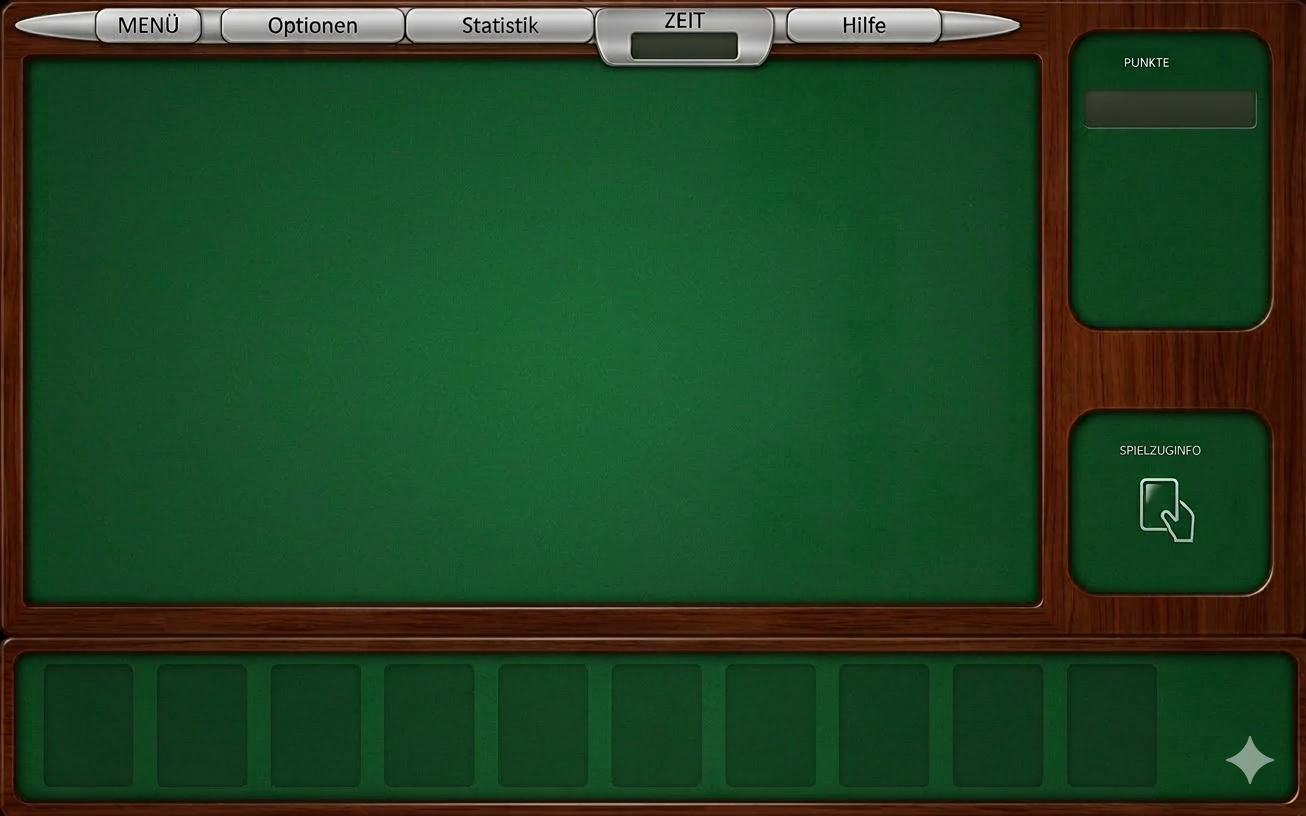
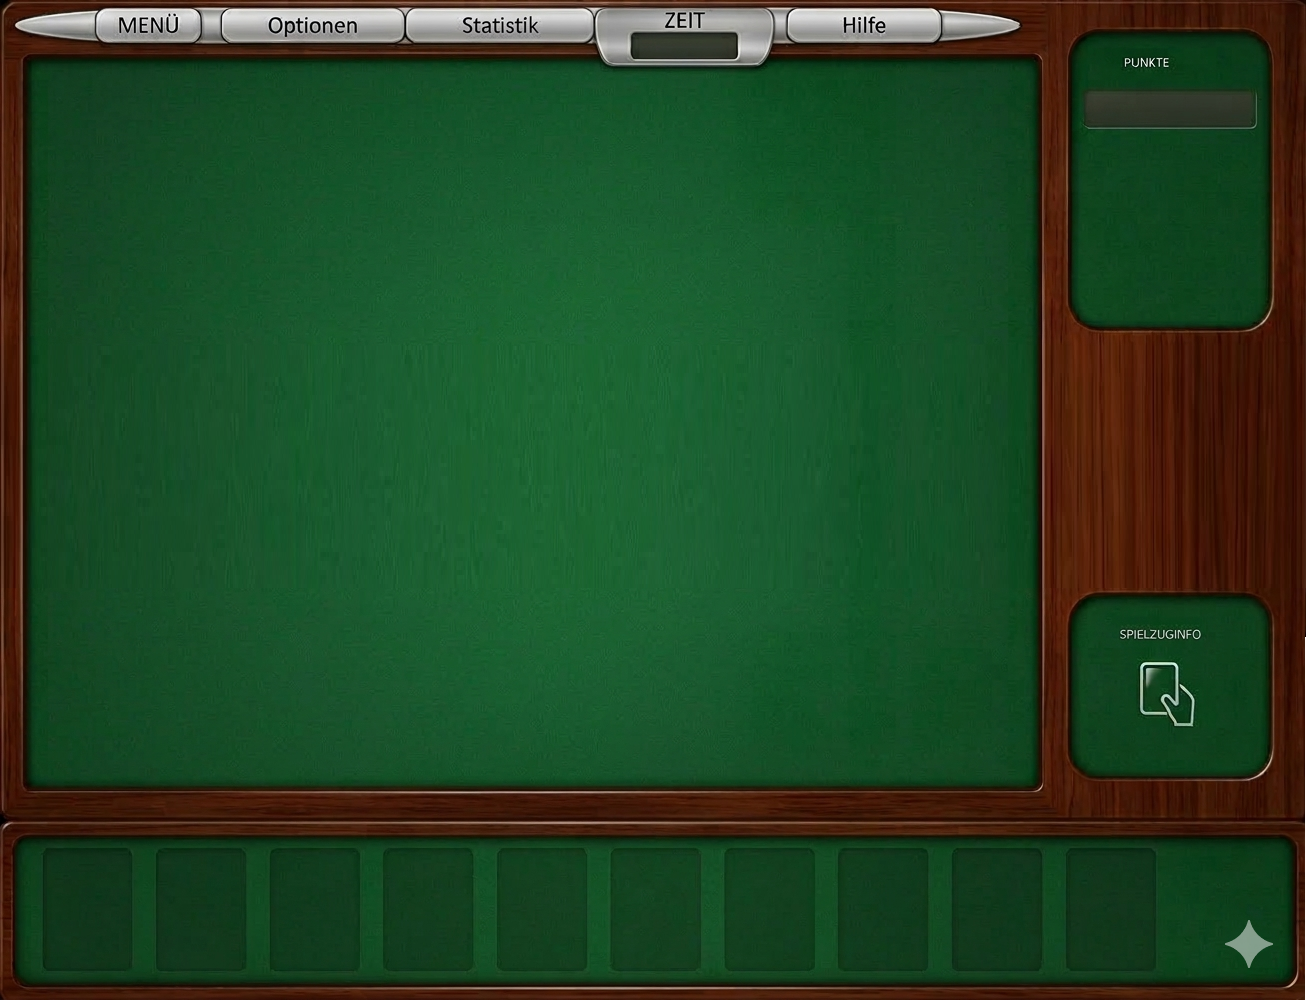
Refactor card scaling and layout logic; add new reihen_anzeige.py file

diff --git a/src/row_taker/gui/main.py b/src/row_taker/gui/main.py
@@ -3,29 +3,70 @@ import pygame
 from row_taker.gui.card import Card
 from row_taker.gui.constants import (
     BACKGROUND_COLOR,
+    BOARD_PLAY_AREA_HEIGHT_RATIO,
+    BOARD_PLAY_AREA_WIDTH_RATIO,
+    BOARD_PLAY_AREA_X_RATIO,
+    BOARD_PLAY_AREA_Y_RATIO,
+    CARD_ASPECT_RATIO,
     CARD_GAP,
-    DEMO_CARD_VALUES,
+    CARD_SCALE,
     FPS,
-    WINDOW_HEIGHT,
     WINDOW_TITLE,
-    WINDOW_WIDTH,
 )
 from row_taker.gui.spielfeld import Spielfeld
 
 
 def create_demo_cards(window_width: int, window_height: int) -> list[Card]:
-    deck = [Card(value) for value in DEMO_CARD_VALUES]
+    rows = 4
+    columns = 6
+
+    # Calculate play area in pixels from ratios
+    play_area_x = int(window_width * BOARD_PLAY_AREA_X_RATIO)
+    play_area_y = int(window_height * BOARD_PLAY_AREA_Y_RATIO)
+    play_area_width = int(window_width * BOARD_PLAY_AREA_WIDTH_RATIO)
+    play_area_height = int(window_height * BOARD_PLAY_AREA_HEIGHT_RATIO)
+
+    deck = [Card(value) for value in range(1, rows * columns + 1)]
 
     for card in deck:
         card.scale(window_width)
 
-    x_pos = CARD_GAP
-    for card in deck:
+    if deck and deck[0].image is not None:
+        # Calculate target dimensions to fit the board play area
+        available_width = play_area_width - columns * CARD_GAP
+        available_height = play_area_height - rows * CARD_GAP
+        target_width_from_width = available_width / columns
+        target_width_from_height = (available_height / rows) / CARD_ASPECT_RATIO
+        target_width = min(target_width_from_width, target_width_from_height)
+
+        # Calculate effective window width for scaling
+        effective_window_width = int(target_width / CARD_SCALE)
+
+        # Rescale cards
+        for card in deck:
+            card.scale(effective_window_width)
+
+    card_width = (
+        deck[0].image.get_width()
+        if deck and deck[0].image is not None
+        else int(window_width * CARD_SCALE)
+    )
+    card_height = (
+        deck[0].image.get_height()
+        if deck and deck[0].image is not None
+        else int(card_width * CARD_ASPECT_RATIO)
+    )
+    total_height = rows * card_height + (rows + 1) * CARD_GAP
+    y_start = play_area_y + max(CARD_GAP, (play_area_height - total_height) // 2)
+
+    for index, card in enumerate(deck):
         if card.image is None:
             continue
-        card.x = x_pos
-        card.y = window_height // 2 - card.image.get_height() // 2
-        x_pos += card.image.get_width() + CARD_GAP
+
+        row = index // columns
+        column = index % columns
+        card.x = play_area_x + CARD_GAP + column * (card_width + CARD_GAP)
+        card.y = y_start + row * (card_height + CARD_GAP)
 
     return deck
 
@@ -39,7 +80,7 @@ def run() -> int:
         pygame.display.set_caption(WINDOW_TITLE)
         clock = pygame.time.Clock()
 
-        deck = create_demo_cards(WINDOW_WIDTH, WINDOW_HEIGHT)
+        deck = create_demo_cards(*spielfeld.get_image_size())
 
         running = True
         while running:

diff --git a/src/row_taker/gui/card.py b/src/row_taker/gui/card.py
@@ -71,7 +71,7 @@ class Card:
         local_x = mouse_pos[0] - self.rect.x
         local_y = mouse_pos[1] - self.rect.y
         if 0 <= local_x < self.rect.width and 0 <= local_y < self.rect.height:
-            return self.mask.get_at((local_x, local_y))
+            return bool(self.mask.get_at((local_x, local_y)))
         return False
 
     def draw(self, surface: pygame.Surface, mouse_pos: tuple[int, int] | None = None) -> None:
@@ -81,7 +81,7 @@ class Card:
 
         self.rect.topleft = (self.x, self.y)
 
-        if mouse_pos and self.is_mouse_over(mouse_pos):
+        if mouse_pos and self.is_mouse_over(mouse_pos) and self.hover_image is not None:
             hover_x = self.rect.x - (self.hover_image.get_width() - self.rect.width) // 2
             hover_y = self.rect.y - (self.hover_image.get_height() - self.rect.height) // 2
             surface.blit(self.hover_image, (hover_x, hover_y))

diff --git a/src/row_taker/gui/constants.py b/src/row_taker/gui/constants.py
@@ -7,8 +7,14 @@ BACKGROUND_COLOR = (0, 120, 0)
 
 FPS = 60
 
-CARD_SCALE = 0.15
+CARD_SCALE = 0.1
 CARD_ASPECT_RATIO = 1.5
-CARD_GAP = 50
+CARD_GAP = 10
+
+# Board play area ratios (relative to board image size)
+BOARD_PLAY_AREA_X_RATIO = 0.02  # 2% from left
+BOARD_PLAY_AREA_Y_RATIO = 0.05  # 5% from top
+BOARD_PLAY_AREA_WIDTH_RATIO = 0.8  # 80% of width
+BOARD_PLAY_AREA_HEIGHT_RATIO = 0.7  # 70% of height
 
 DEMO_CARD_VALUES = [1, 2, 3, 4, 5]
